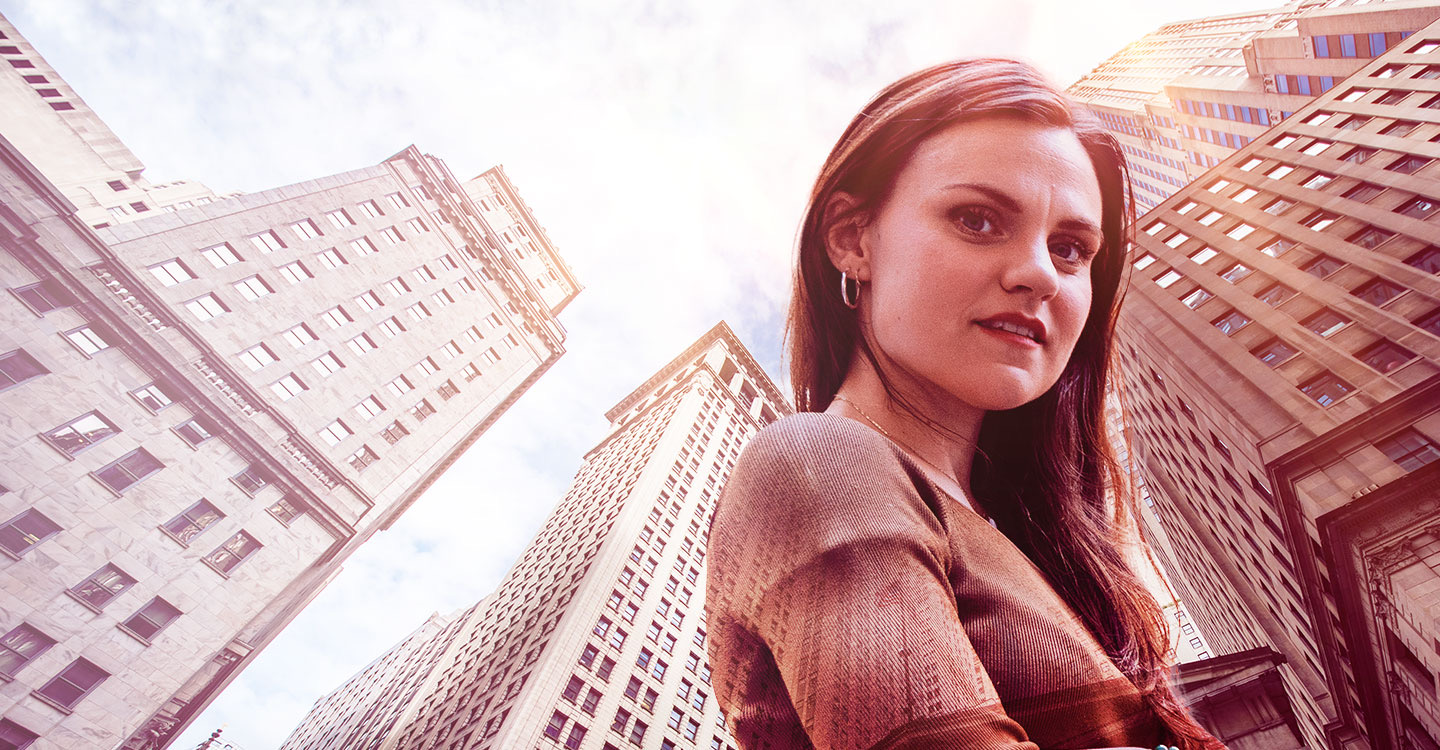
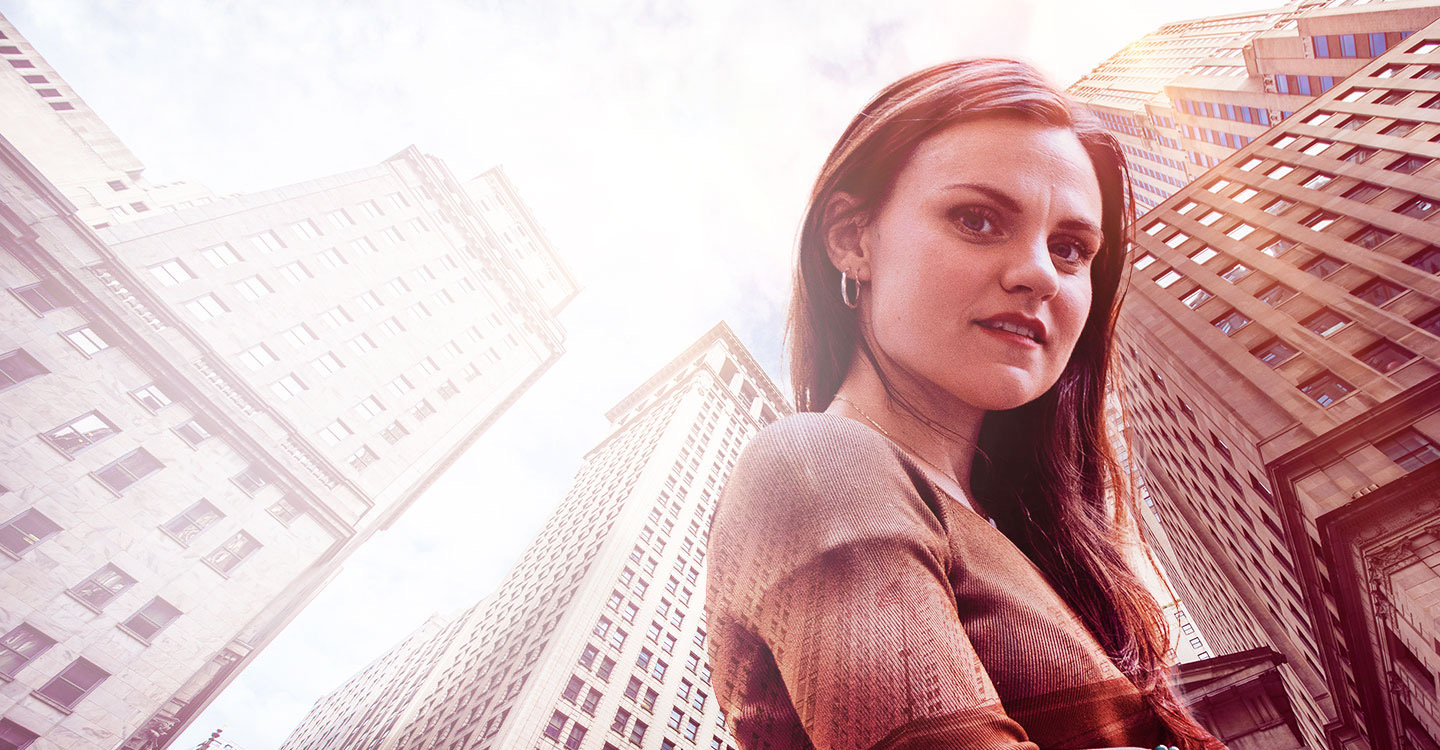
small fixes

Changed region(s): [[0.0, 0.184, 0.4062, 1.0], [0.1875, 0.1533, 0.6562, 1.0], [0.0, 0.0613, 0.0625, 0.1533]]

diff --git a/static/podigee/index.html b/static/podigee/index.html
@@ -3,37 +3,102 @@
   <div class="main-player">
     <div class="controls">
       <button class="fa fa-play play-button">
-        <svg class="play-button-playing" width="60px" height="60px" viewBox="0 0 60 60" version="1.1"
-        xmlns="http://www.w3.org/2000/svg" xmlns:xlink="http://www.w3.org/1999/xlink">
-        <g id="Symbols" stroke="none" stroke-width="1" fill="none" fill-rule="evenodd">
-          <g id="Player-Icon-/-PLAY">
-            <g id="Group-7" transform="translate(21.500000, 18.000000)" fill="#7000c0">
-              <path
-                d="M13.7888544,3.57770876 L22.5527864,21.1055728 L22.5527864,21.1055728 C23.0467649,22.0935298 22.6463162,23.2948759 21.6583592,23.7888544 C21.3806483,23.9277098 21.0744222,24 20.763932,24 L3.23606798,24 L3.23606798,24 C2.13149848,24 1.23606798,23.1045695 1.23606798,22 C1.23606798,21.6895098 1.30835816,21.3832837 1.4472136,21.1055728 L10.2111456,3.57770876 L10.2111456,3.57770876 C10.7051241,2.58975177 11.9064702,2.18930308 12.8944272,2.68328157 C13.281482,2.87680898 13.595327,3.19065396 13.7888544,3.57770876 Z"
-                id="Triangle"
-                transform="translate(12.000000, 12.000000) rotate(90.000000) translate(-12.000000, -12.000000) "></path>
+        <svg
+          class="play-button-playing"
+          width="60px"
+          height="60px"
+          viewBox="0 0 60 60"
+          version="1.1"
+          xmlns="http://www.w3.org/2000/svg"
+          xmlns:xlink="http://www.w3.org/1999/xlink"
+        >
+          <g
+            id="Symbols"
+            stroke="none"
+            stroke-width="1"
+            fill="none"
+            fill-rule="evenodd"
+          >
+            <g id="Player-Icon-/-PLAY">
+              <g
+                id="Group-7"
+                transform="translate(21.500000, 18.000000)"
+                fill="#7000c0"
+              >
+                <path
+                  d="M13.7888544,3.57770876 L22.5527864,21.1055728 L22.5527864,21.1055728 C23.0467649,22.0935298 22.6463162,23.2948759 21.6583592,23.7888544 C21.3806483,23.9277098 21.0744222,24 20.763932,24 L3.23606798,24 L3.23606798,24 C2.13149848,24 1.23606798,23.1045695 1.23606798,22 C1.23606798,21.6895098 1.30835816,21.3832837 1.4472136,21.1055728 L10.2111456,3.57770876 L10.2111456,3.57770876 C10.7051241,2.58975177 11.9064702,2.18930308 12.8944272,2.68328157 C13.281482,2.87680898 13.595327,3.19065396 13.7888544,3.57770876 Z"
+                  id="Triangle"
+                  transform="translate(12.000000, 12.000000) rotate(90.000000) translate(-12.000000, -12.000000) "
+                ></path>
+              </g>
+              <circle
+                id="Oval"
+                stroke="#7000c0"
+                stroke-width="2"
+                cx="30"
+                cy="30"
+                r="29"
+              ></circle>
             </g>
-            <circle id="Oval" stroke="#7000c0" stroke-width="2" cx="30" cy="30" r="29"></circle>
           </g>
-        </g>
-      </svg>
-    <svg class="play-button-paused" width="60px" height="60px" viewBox="0 0 60 60" version="1.1"
-      xmlns="http://www.w3.org/2000/svg" xmlns:xlink="http://www.w3.org/1999/xlink">
-      <g id="Symbols" stroke="none" stroke-width="1" fill="none" fill-rule="evenodd">
-        <g id="Player-Icon-/-PAUSE">
-          <g id="Group">
-            <circle id="Oval" stroke="#7000c0" stroke-width="2" cx="30" cy="30" r="29"></circle>
-            <rect id="Rectangle-6" fill="#7000c0" x="20" y="18" width="8" height="25" rx="2"></rect>
-            <rect id="Rectangle-6" fill="#7000c0" x="33" y="18" width="8" height="25" rx="2"></rect>
+        </svg>
+        <svg
+          class="play-button-paused"
+          width="60px"
+          height="60px"
+          viewBox="0 0 60 60"
+          version="1.1"
+          xmlns="http://www.w3.org/2000/svg"
+          xmlns:xlink="http://www.w3.org/1999/xlink"
+        >
+          <g
+            id="Symbols"
+            stroke="none"
+            stroke-width="1"
+            fill="none"
+            fill-rule="evenodd"
+          >
+            <g id="Player-Icon-/-PAUSE">
+              <g id="Group">
+                <circle
+                  id="Oval"
+                  stroke="#7000c0"
+                  stroke-width="2"
+                  cx="30"
+                  cy="30"
+                  r="29"
+                ></circle>
+                <rect
+                  id="Rectangle-6"
+                  fill="#7000c0"
+                  x="20"
+                  y="18"
+                  width="8"
+                  height="25"
+                  rx="2"
+                ></rect>
+                <rect
+                  id="Rectangle-6"
+                  fill="#7000c0"
+                  x="33"
+                  y="18"
+                  width="8"
+                  height="25"
+                  rx="2"
+                ></rect>
+              </g>
+            </g>
           </g>
-        </g>
-      </g>
-    </svg>
-  </button>
+        </svg>
+      </button>
     </div>
     <div class="controls-advanced">
-      <button class="backward-button"><i class="fa fa-backward" title="Backward 10s"></i></button>
-      <button class="forward-button"><i class="fa fa-forward" title="Forward 30s"></i></button>
+      <button class="backward-button">
+        <i class="fa fa-backward" title="Backward 10s"></i>
+      </button>
+      <button class="forward-button">
+        <i class="fa fa-forward" title="Forward 30s"></i>
+      </button>
     </div>
 
     <progressbar />

diff --git a/src/components/ProviderLogos.js b/src/components/ProviderLogos.js
@@ -69,11 +69,10 @@ const Banner = styled.div`
 const ProviderLogos = props => (
   <StyledLogos>
     <a
-    // href="https://podcasts.apple.com/de/podcast/"
+    // href="https://podcasts.apple.com/de/podcast/id1492041064 "
     // target="_blank"
     // rel="noopener noreferrer"
     >
-      {" "}
       <Banner>
         <img src={apple} alt="apple logo" />
         <p>Coming soon</p>
@@ -81,39 +80,46 @@ const ProviderLogos = props => (
       {/* <img src={apple} alt="apple logo" /> */}
     </a>
     <a
-      href="https://open.spotify.com/show/6Fe93skKJuVnpnAbRZpVGS"
+      href="https://open.spotify.com/show/30ymBlt8WBXptJOEvpg3Sg"
       target="_blank"
       rel="noopener noreferrer"
     >
       <img src={spotify} alt="spotify logo"></img>
     </a>
     <a
-      href="https://www.deezer.com/de/show/630472"
+      href="https://www.deezer.com/de/show/742072"
       target="_blank"
       rel="noopener noreferrer"
     >
       <img src={deezer} alt="deezer logo"></img>
     </a>
     <a
-      href="https://earli.page.link/N5R3"
-      target="_blank"
-      rel="noopener noreferrer"
+    // href="https://earli.page.link/N5R3"
+    // target="_blank"
+    // rel="noopener noreferrer"
     >
-      <StyledImage src={earliaudio} alt="earliaudio logo"></StyledImage>
+      <Banner>
+        <StyledImage src={earliaudio} alt="earliaudio logo"></StyledImage>
+        <p>Coming soon</p>
+      </Banner>
     </a>
     <a
-      href="https://soundcloud.com/user-652439363"
-      target="_blank"
-      rel="noopener noreferrer"
+    // href="" target="_blank" rel="noopener noreferrer"
     >
-      <img src={soundcloud} alt="soundcloud logo"></img>
+      <Banner>
+        <img src={soundcloud} alt="soundcloud logo"></img>
+        <p>Coming soon</p>
+      </Banner>
     </a>
     <a
-      href="https://overcast.fm/itunes1485252076/the-americans"
-      target="_blank"
-      rel="noopener noreferrer"
+    // href="https://overcast.fm/itunes1492041064"
+    // target="_blank"
+    // rel="noopener noreferrer"
     >
-      <img src={overcast} alt="overcast logo"></img>
+      <Banner>
+        <img src={overcast} alt="overcast logo"></img>
+        <p>Coming soon</p>
+      </Banner>
     </a>
     <RSSButton></RSSButton>
   </StyledLogos>

diff --git a/src/components/Navigation.js b/src/components/Navigation.js
@@ -128,17 +128,7 @@ const Navigation = props => {
 
         <SocialLinks>
           <a
-            href="https://www.facebook.com/the.americans.podcast"
-            target="_blank"
-            rel="noopener noreferrer"
-            aria-label="The americans podcast on facebook"
-          >
-            <StyledIcon>
-              <Icon icon={ICONS.FACEBOOK} />
-            </StyledIcon>
-          </a>
-          <a
-            href="https://www.instagram.com/chelsea.spieker"
+            href="https://instagram.com/sophiesnews"
             target="_blank"
             rel="noopener noreferrer"
             aria-label="Sophie Schimansky on instagram"
@@ -148,7 +138,7 @@ const Navigation = props => {
             </StyledIcon>
           </a>
           <a
-            href="https://twitter.com/ChelseaSpieker"
+            href="https://twitter.com/soschimansky"
             target="_blank"
             rel="noopener noreferrer"
             aria-label="Sophie Schimansky on twitter"
@@ -158,7 +148,7 @@ const Navigation = props => {
             </StyledIcon>
           </a>
           <a
-            href="https://www.linkedin.com/in/chelsea-spieker-2859b016/"
+            href="https://www.linkedin.com/in/sophie-schimansky-88436158/"
             target="_blank"
             rel="noopener noreferrer"
             aria-label="Sophie Schimansky on linkedIn"

diff --git a/src/components/MPProducts.js b/src/components/MPProducts.js
@@ -85,7 +85,7 @@ const PreHeadline = styled.p`
 const MPProducts = props => (
   <StyledSection>
     <div>
-      <PreHeadline>Weitere Produktionen von MediaPioneer</PreHeadline>
+      <PreHeadline>Weitere Produktionen von</PreHeadline>
       <StyledLogo src={mpLogo} alt="Mediapioneer-Logo" />
       <ProductContainer>
         <a
@@ -102,7 +102,7 @@ const MPProducts = props => (
           rel="noopener noreferrer"
         >
           <TheAmericansPodcastImage></TheAmericansPodcastImage>
-          <p>The Americans Podcast</p>
+          <p>The Americans – mit Chelsea Spieker</p>
         </a>
 
         {/*<a

diff --git a/src/components/ImageComponents/HeroImage.js b/src/components/ImageComponents/HeroImage.js
@@ -23,7 +23,7 @@ const HeroImage = () => (
       query {
         heroImage: file(relativePath: { eq: "hero.jpg" }) {
           childImageSharp {
-            fluid(maxWidth: 2000) {
+            fluid(maxWidth: 2000, quality: 100) {
               ...GatsbyImageSharpFluid_withWebp_noBase64
             }
           }

diff --git a/src/components/RecentEpisodes.js b/src/components/RecentEpisodes.js
@@ -56,7 +56,7 @@ export default () => (
     `}
     render={data => (
       <StyledRecentEpisodes>
-        <h2>Recent Episodes</h2>
+        <h2>Aktuelle Folgen</h2>
         {/* <img src={headlineBG} alt="Airplanes flying away from headline" /> */}
         {/* <StyledHeadline>
         </StyledHeadline> */}

diff --git a/src/templates/episode.js b/src/templates/episode.js
@@ -8,7 +8,6 @@ import styled from "styled-components"
 import { device } from "../theme/breakpoints"
 import Icon from "../components/Icon"
 import { ICONS } from "../theme/Icons"
-import background from "../content/images/bg.jpg"
 
 import Layout from "../components/Layout"
 import SEO from "../components/Seo"
